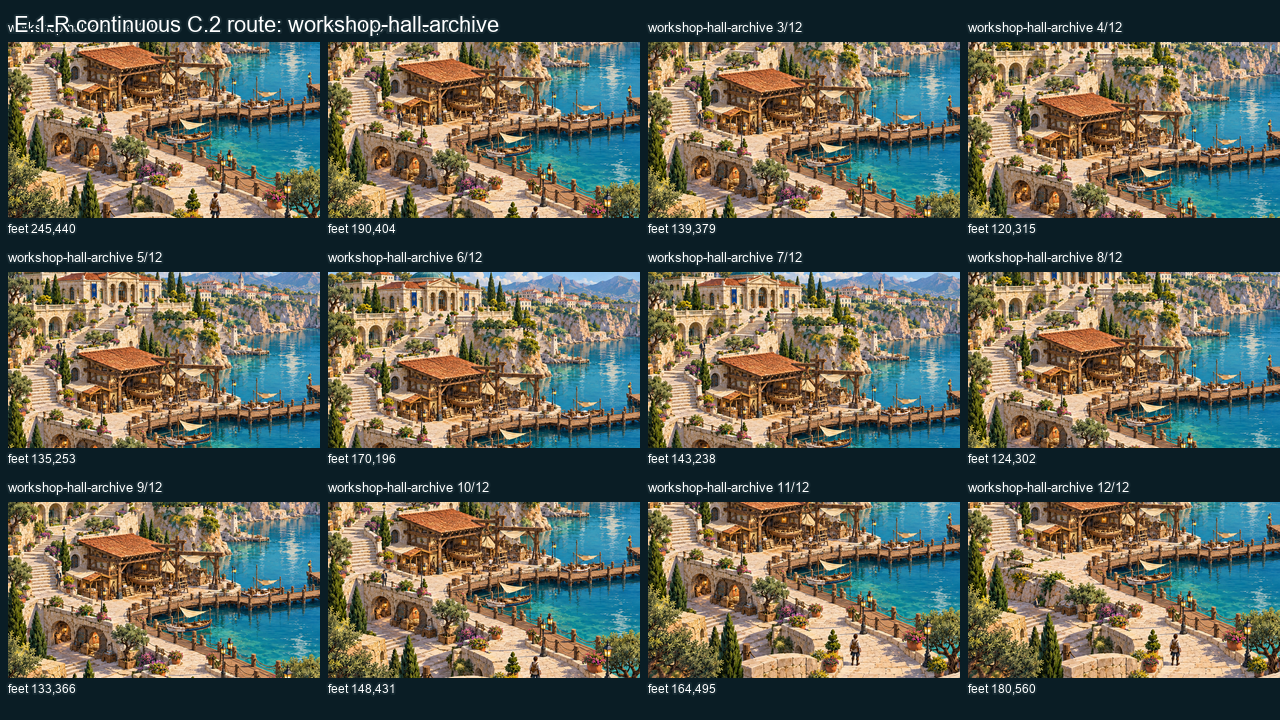
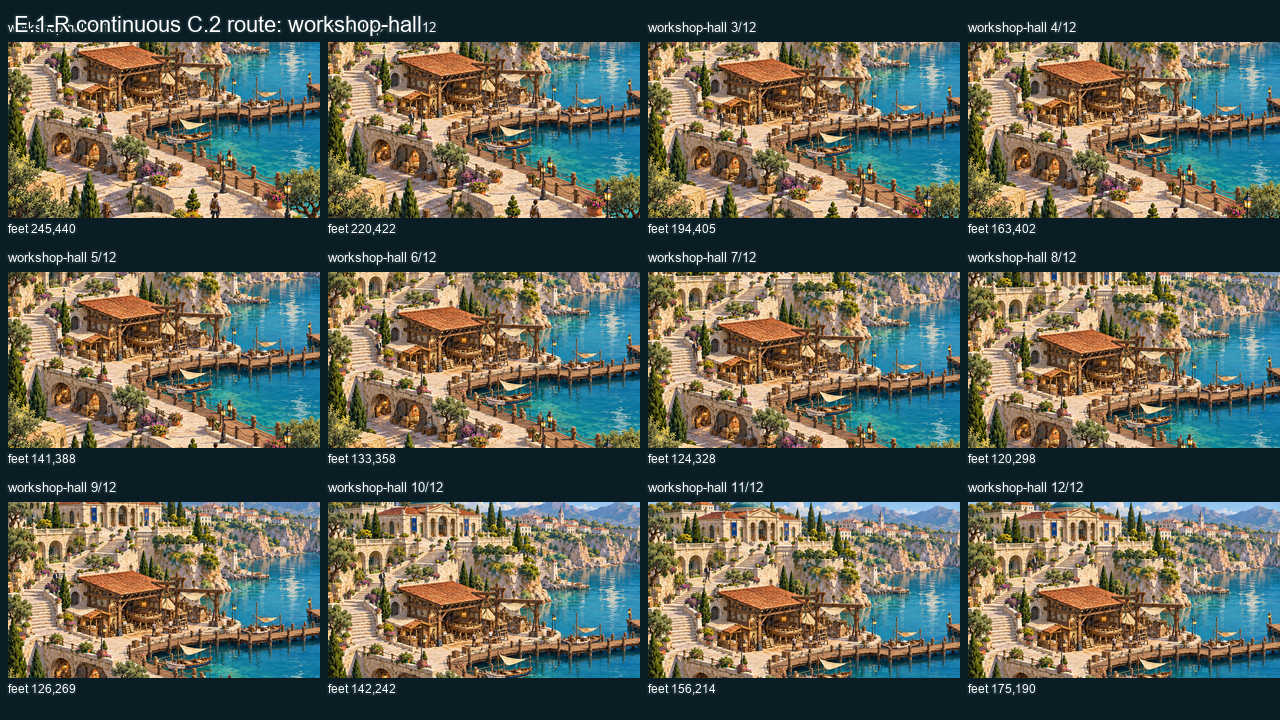
fix(r5): separate C2 motion evidence routes

diff --git a/portfolio-world/tools/build_r5_e1r_common_world.py b/portfolio-world/tools/build_r5_e1r_common_world.py
@@ -130,7 +130,7 @@ def sample_polyline(points: list[tuple[int, int]], count: int) -> list[tuple[flo
     return result
 
 
-def motion_sheet(name: str, points: list[tuple[int, int]], base: Image.Image, assets: dict[str, tuple[Image.Image, tuple[int, int]]], enabled: set[str]) -> dict:
+def motion_sheet(name: str, points: list[tuple[int, int]], base: Image.Image, assets: dict[str, tuple[Image.Image, tuple[int, int]]], enabled: set[str], sheet: Path | None = None) -> dict:
     frames = sample_polyline(points, 12)
     output = Image.new("RGBA", (1280, 720), (10, 29, 37, 255))
     thumbnails = []
@@ -148,7 +148,8 @@ def motion_sheet(name: str, points: list[tuple[int, int]], base: Image.Image, as
         text(d, (x, y - 22), f"{name} {index + 1}/12", 13)
         text(d, (x, y + 180), f"feet {records[index]['feet'][0]:.0f},{records[index]['feet'][1]:.0f}", 12)
     text(ImageDraw.Draw(output), (14, 12), f"E.1-R continuous C.2 route: {name}", 22)
-    save(OUT / ("15-workshop-motion-sequence.png" if name == "workshop-hall-archive" else "16-hero-motion-sequence.png"), output)
+    if sheet:
+        save(sheet, output)
     # An animated artifact is useful evidence but never a runtime video claim.
     gifs = [Image.open(MOTION / name / f"frame-{i:02d}.png").convert("P", palette=Image.Palette.ADAPTIVE) for i in range(12)]
     gifs[0].save(MOTION / f"{name}.gif", save_all=True, append_images=gifs[1:], duration=180, loop=0)
@@ -235,8 +236,9 @@ def main() -> None:
     text(ImageDraw.Draw(toggle), (14, 14), "Independent layer ON/OFF — composite uses individual layers only", 22)
     save(OUT / "14-independent-layer-toggle-board.png", toggle)
 
-    motion_a = motion_sheet("workshop-hall-archive", [(245, 440), (195, 405), (145, 400), (120, 315), (120, 280), (140, 245), (155, 215), (175, 190), (155, 215), (140, 245), (120, 315), (180, 560)], base, assets, enabled)
-    motion_b = motion_sheet("hero-route", [(245, 440), (340, 455), (455, 470), (500, 435), (565, 400), (650, 400), (770, 380), (890, 355), (950, 350), (1015, 355), (1028, 355)], base, assets, enabled)
+    motion_a = motion_sheet("workshop-hall", [(245, 440), (195, 405), (145, 400), (120, 315), (120, 280), (140, 245), (155, 215), (175, 190)], base, assets, enabled, OUT / "15-workshop-motion-sequence.png")
+    motion_b = motion_sheet("workshop-archive", [(245, 440), (210, 495), (200, 540), (180, 560)], base, assets, enabled)
+    motion_c = motion_sheet("hero-route", [(245, 440), (340, 455), (455, 470), (500, 435), (565, 400), (650, 400), (770, 380), (890, 355), (950, 350), (1015, 355), (1028, 355)], base, assets, enabled, OUT / "16-hero-motion-sequence.png")
 
     compare = Image.new("RGBA", (1280, 720), (10, 29, 37, 255)); compare.alpha_composite(master.resize((620, 349), Image.Resampling.LANCZOS), (20, 64)); compare.alpha_composite(full.resize((620, 349), Image.Resampling.LANCZOS), (640, 64)); d = ImageDraw.Draw(compare); text(d, (20, 18), "IMMUTABLE CANDIDATE B", 20); text(d, (640, 18), "COMMON BASE + INDIVIDUAL LAYERS", 20); text(d, (20, 440), f"outside-mask changes: {changed_outside}; owned local pixels changed: {changed}; semantic overlaps: {overlap}", 16); text(d, (20, 475), "The shared world has one base; no full-scene generated replacement is used.", 16)
     save(OUT / "17-beauty-master-vs-common-world.png", compare)
@@ -249,7 +251,7 @@ def main() -> None:
     save(OUT / "18-camera-five-location-board.png", camera_board)
     final = Image.new("RGBA", (1280, 720), (10, 29, 37, 255)); final.alpha_composite(full.resize((610, 343), Image.Resampling.LANCZOS), (20, 54)); final.alpha_composite(toggle.resize((610, 343), Image.Resampling.LANCZOS), (650, 54)); final.alpha_composite(camera_board.resize((610, 343), Image.Resampling.LANCZOS), (20, 397)); final.alpha_composite(compare.resize((610, 343), Image.Resampling.LANCZOS), (650, 397)); text(ImageDraw.Draw(final), (20, 16), "R5 PHASE E.1-R — COMMON WORLD HUMAN REVIEW", 24); save(OUT / "19-final-human-review-board.png", final)
 
-    data = {"status": "CONDITIONAL_REWORK_REQUIRED", "sourceMaster": {"path": str(MASTER.relative_to(ROOT)).replace("\\", "/"), "sha256": sha(MASTER)}, "commonBase": {"path": str((OUT / '11-common-clean-base.png').relative_to(ROOT)).replace("\\", "/"), "method": "Candidate B copied outside exact local edit mask; E.1 generated sources sampled only inside owned masks", "sha256": sha(OUT / '11-common-clean-base.png')}, "localEditMasks": [{"id": "MASK_WORKSHOP_HALL", "path": str((ASSETS / 'MASK_WORKSHOP_HALL.png').relative_to(ROOT)).replace("\\", "/"), "owner": "Hall, stairs, Workshop, archive foreground", "featherPixels": 0}, {"id": "MASK_HERO_DOCK", "path": str((ASSETS / 'MASK_HERO_DOCK.png').relative_to(ROOT)).replace("\\", "/"), "owner": "Dock, piles, gangway, Hero, water contact", "featherPixels": 0}, {"id": "MASK_STATIC_FIGURES", "path": str((ASSETS / 'MASK_STATIC_FIGURES.png').relative_to(ROOT)).replace("\\", "/"), "owner": "unused; no C.2 route overlap", "featherPixels": 0}], "pixelIntegrity": {"changedPixelsOutsideEditMask": changed_outside, "changedPixelsInsideEditMask": changed, "totalPixelCount": SIZE[0] * SIZE[1], "changedPercent": round(changed / (SIZE[0] * SIZE[1]) * 100, 4), "status": "PASS" if changed_outside == 0 else "FAIL"}, "individualLayers": manifest, "layerDependencies": {"commonWorldBase": "required base", "waterContactForeground": "independent contact-only visual; no duplicate water foreground", "heroShipForeground": "independent stern foreground; ship hull remains separately toggleable"}, "layerToggleTests": [{"off": asset_id, "result": "PASS — owned geometry absent from base, other layers remain"} for asset_id in toggle_ids], "cameraContract": {"world": [1280, 720], "logicalViewport": list(LOGICAL), "zoom": ZOOM, "visibleWorld": list(VISIBLE), "preview": [1280, 720], "playerLogicalScreen": [35, 70], "locations": cameras}, "playerContract": {"asset": str(PLAYER.relative_to(ROOT)).replace("\\", "/"), "sha256": sha(PLAYER), "worldSize": [28, 56], "groundAnchor": "bottom-center"}, "motionValidation": [motion_a, motion_b], "reproducibility": {"command": "python portfolio-world/tools/build_r5_e1r_common_world.py", "inputs": [{"path": str(p.relative_to(ROOT)).replace("\\", "/"), "sha256": sha(p)} for p in required], "externalApi": "none", "deterministic": True}, "visualQa": {"duplicateSemanticPixels": overlap, "fullCompositeUsesBundles": False, "cameraZoomAppliedOnce": True, "rightReserve": "preserved from Candidate B outside masks"}, "unresolvedIssues": ["Generated repair pixels within local masks remain an estimated production-pilot background.", "Hard ownership boundaries avoid duplicate pixels but need artist paint-over before final production art approval.", "Motion evidence is an independent harness, not R5 Runtime."], "humanGate": "CONDITIONAL_REWORK_REQUIRED"}
+    data = {"status": "CONDITIONAL_REWORK_REQUIRED", "sourceMaster": {"path": str(MASTER.relative_to(ROOT)).replace("\\", "/"), "sha256": sha(MASTER)}, "commonBase": {"path": str((OUT / '11-common-clean-base.png').relative_to(ROOT)).replace("\\", "/"), "method": "Candidate B copied outside exact local edit mask; E.1 generated sources sampled only inside owned masks", "sha256": sha(OUT / '11-common-clean-base.png')}, "localEditMasks": [{"id": "MASK_WORKSHOP_HALL", "path": str((ASSETS / 'MASK_WORKSHOP_HALL.png').relative_to(ROOT)).replace("\\", "/"), "owner": "Hall, stairs, Workshop, archive foreground", "featherPixels": 0}, {"id": "MASK_HERO_DOCK", "path": str((ASSETS / 'MASK_HERO_DOCK.png').relative_to(ROOT)).replace("\\", "/"), "owner": "Dock, piles, gangway, Hero, water contact", "featherPixels": 0}, {"id": "MASK_STATIC_FIGURES", "path": str((ASSETS / 'MASK_STATIC_FIGURES.png').relative_to(ROOT)).replace("\\", "/"), "owner": "unused; no C.2 route overlap", "featherPixels": 0}], "pixelIntegrity": {"changedPixelsOutsideEditMask": changed_outside, "changedPixelsInsideEditMask": changed, "totalPixelCount": SIZE[0] * SIZE[1], "changedPercent": round(changed / (SIZE[0] * SIZE[1]) * 100, 4), "status": "PASS" if changed_outside == 0 else "FAIL"}, "individualLayers": manifest, "layerDependencies": {"commonWorldBase": "required base", "waterContactForeground": "independent contact-only visual; no duplicate water foreground", "heroShipForeground": "independent stern foreground; ship hull remains separately toggleable"}, "layerToggleTests": [{"off": asset_id, "result": "PASS — owned geometry absent from base, other layers remain"} for asset_id in toggle_ids], "cameraContract": {"world": [1280, 720], "logicalViewport": list(LOGICAL), "zoom": ZOOM, "visibleWorld": list(VISIBLE), "preview": [1280, 720], "playerLogicalScreen": [35, 70], "locations": cameras}, "playerContract": {"asset": str(PLAYER.relative_to(ROOT)).replace("\\", "/"), "sha256": sha(PLAYER), "worldSize": [28, 56], "groundAnchor": "bottom-center"}, "motionValidation": [motion_a, motion_b, motion_c], "reproducibility": {"command": "python portfolio-world/tools/build_r5_e1r_common_world.py", "inputs": [{"path": str(p.relative_to(ROOT)).replace("\\", "/"), "sha256": sha(p)} for p in required], "externalApi": "none", "deterministic": True}, "visualQa": {"duplicateSemanticPixels": overlap, "fullCompositeUsesBundles": False, "cameraZoomAppliedOnce": True, "rightReserve": "preserved from Candidate B outside masks"}, "unresolvedIssues": ["Generated repair pixels within local masks remain an estimated production-pilot background.", "Hard ownership boundaries avoid duplicate pixels but need artist paint-over before final production art approval.", "Motion evidence is an independent harness, not R5 Runtime."], "humanGate": "CONDITIONAL_REWORK_REQUIRED"}
     draft = ROOT / "data/portfolio-world/r5-common-world-production-draft.json"; draft.write_text(json.dumps(data, indent=2) + "\n", encoding="utf-8")
 
 

diff --git a/reports/portfolio-world-rebuild/r5-world-layout-recovery/phase-e1-r/06-player-motion-occlusion-review.md b/reports/portfolio-world-rebuild/r5-world-layout-recovery/phase-e1-r/06-player-motion-occlusion-review.md
@@ -1,5 +1,5 @@
 # Player motion and occlusion review
 
-Motion evidence is generated from C.2 polylines, not direct shortcuts. `workshop-hall-archive` covers Workshop → Hall stair chain and Workshop → Archive; `hero-route` covers Workshop → Promenade → Pier → Side Dock → Gangway → Hero threshold. Each has 12 PNG frames and a GIF in `motion-evidence/`.
+Motion evidence is generated from C.2 polylines, not direct shortcuts. `workshop-hall` covers Workshop → Hall stair chain, `workshop-archive` covers Workshop → Archive approach, and `hero-route` covers Workshop → Promenade → Pier → Side Dock → Gangway → Hero threshold. Each has 12 PNG frames and a GIF in `motion-evidence/`.
 
 The harness uses the tracked R4 Candidate B 28×56 player and bottom-center feet. Foreground rails, archive foreground, Hero foreground, and water contact use explicit feet-boundary rules after player rendering; primary architecture renders before player. This is independent-harness evidence, not Runtime movement or a final collision implementation.
